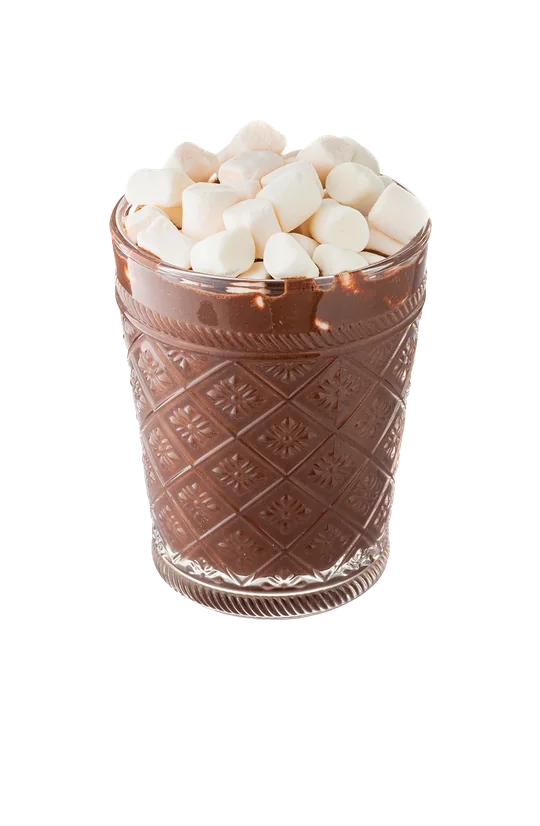
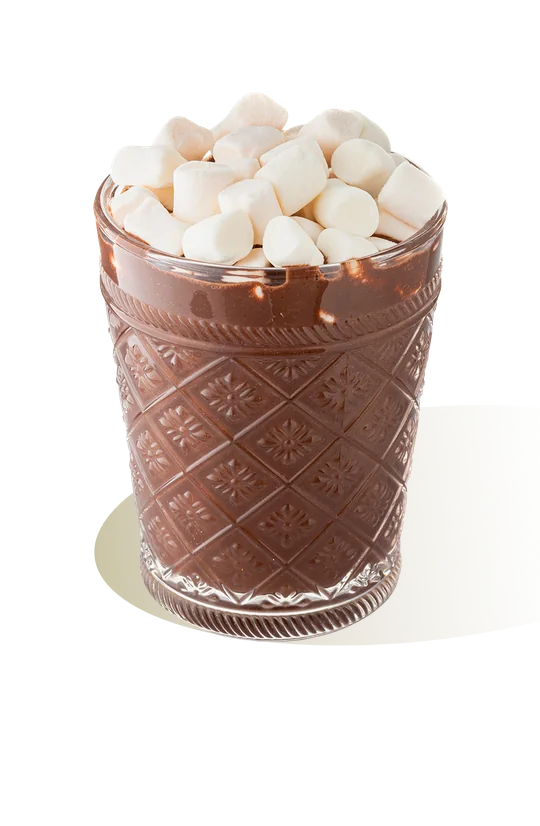
fix(product): stand the drink on its own shadow, not beside it
The card's ground was one fixed ellipse from the design file, placed by CSS at
the coordinates the file gives it: 241 x 88.7 at (76.8, 232.9), offset right of
the drink and with its body ending 43 above the base. Under sixteen drinks of
different widths that reads as a pale smear next to the glass rather than as
the glass's shadow — which is what it looked like on both the homepage grid and
the catalogue shelf.

It is now drawn into the shot itself, from the drink's own width: 1.79 wide and
0.66 tall relative to the glass, bottom edge on the base, left edge on the
glass's left edge, tilted the design's 5.63 degrees. Those are the design's own
proportions, taken from the tile where the ellipse and the glass are both
measurable; expressing them as ratios is what ties the shadow to the glass that
casts it, at any card size, on either page.

The glasses were also too small and sitting too high. The earlier figures came
from scaling each source's alpha bounds into its placement box, which assumes
the box is undistorted — ten of the sixteen are not. Rendering the design's grid
at 1:1 and measuring the drinks instead gives 217 to 321 tall, median 275, on a
base at 306 to 339, median 321. Rebuilt to 275 and 321: every drink now lands
within 265-276 tall with its base at 317-321, and the 12px clearance to the
printed name is the design's own.

`--tbb-card-ground-from` and `--tbb-card-ground-clear` go with the CSS layer.

Changed region(s): [[0.1481, 0.0908, 0.8296, 0.7869], [0.237, 0.1513, 0.2667, 0.1816]]

diff --git a/src/components/product/ProductTileArt.module.css b/src/components/product/ProductTileArt.module.css
@@ -34,36 +34,16 @@
 }
 
 /**
- * The ground the drink stands on: an ellipse rotated 5.63 degrees, running off
- * the right edge of the card. Figma rotates counter-clockwise and CSS
- * clockwise, hence the negative angle.
+ * The drink, and the ground it stands on.
  *
- * It is offset to the right of the drink rather than centred under it. That is
- * how the file draws it on all sixteen cards, and it is what gives the card its
- * diagonal — so it is intent, not a stray.
- */
-.ground {
-  position: absolute;
-  /* 76.77 / 270, 232.92 / 413, 241.03 / 270, 88.71 / 413 */
-  left: 28.43%;
-  top: 56.4%;
-  width: 89.27%;
-  height: 21.48%;
-  border-radius: 50%;
-  transform: rotate(-5.63deg);
-  transform-origin: 0 0;
-  background: linear-gradient(
-    90deg,
-    var(--tbb-card-ground-from) 0%,
-    var(--tbb-card-ground-clear) 75%
-  );
-  pointer-events: none;
-}
-
-/**
- * The drink. `build-design-shots.mjs` writes it into a canvas that is the whole
- * card, already trimmed, fitted to one height and stood on one baseline, so
- * there is nothing to place here: the layer is the frame.
+ * Both are in the one image. `build-design-shots.mjs` trims the drink, fits it
+ * to one height, stands it on one baseline and draws its ground from its own
+ * width — so the shadow is tied to the glass that casts it and cannot drift
+ * from it at any card size. The layer is the frame; there is nothing to place.
+ *
+ * The ground used to be a CSS element carrying the design's own single ellipse.
+ * One fixed ellipse under sixteen drinks of different widths read as a smear
+ * beside the drink rather than as its shadow, which is what it looked like.
  */
 .shot {
   position: absolute;

diff --git a/src/styles/design-tokens.css b/src/styles/design-tokens.css
@@ -43,10 +43,9 @@
    */
   --tbb-card-wash-from: #fbf8f0;
   --tbb-card-wash-to: #e7e0cf;
-  --tbb-card-ground-from: #ccc4a7;
-  /* The ground fades out rather than fading to a colour: the design's far stop
-     is #e1ded4 at zero alpha, and keeping its hue avoids a grey fringe. */
-  --tbb-card-ground-clear: rgb(225 222 212 / 0);
+  /* The ground the drink stands on is drawn into the shot itself, from the
+     drink's own width — see `build-design-shots.mjs`. It has no token here
+     because no stylesheet paints it. */
   --tbb-card-label: #8f8b7a;
   /* Small print, the advantage discs and every line-drawn icon. */
   --tbb-stone: #7e7a72;

diff --git a/src/components/product/ProductTileArt.tsx b/src/components/product/ProductTileArt.tsx
@@ -29,7 +29,6 @@ export function ProductTileArt({
 }) {
   return (
     <div className={className ? `${styles.art} ${className}` : styles.art}>
-      <span className={styles.ground} aria-hidden />
       <Image
         className={styles.shot}
         src={`/images/shot-${slug}.webp`}
